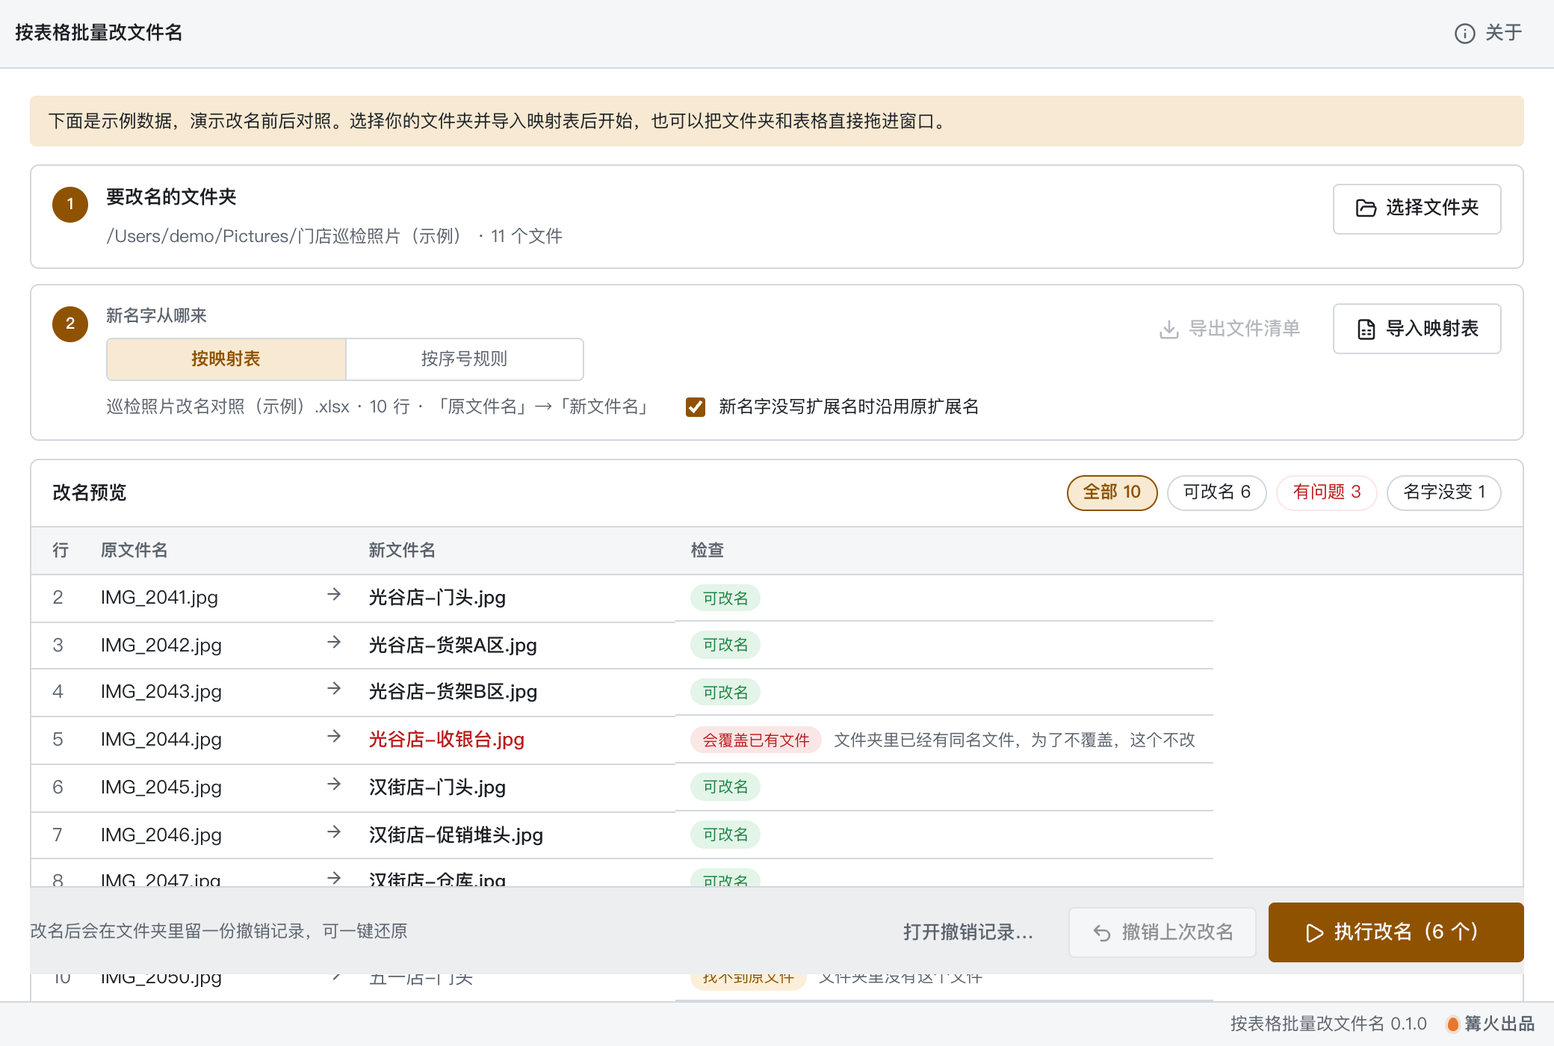
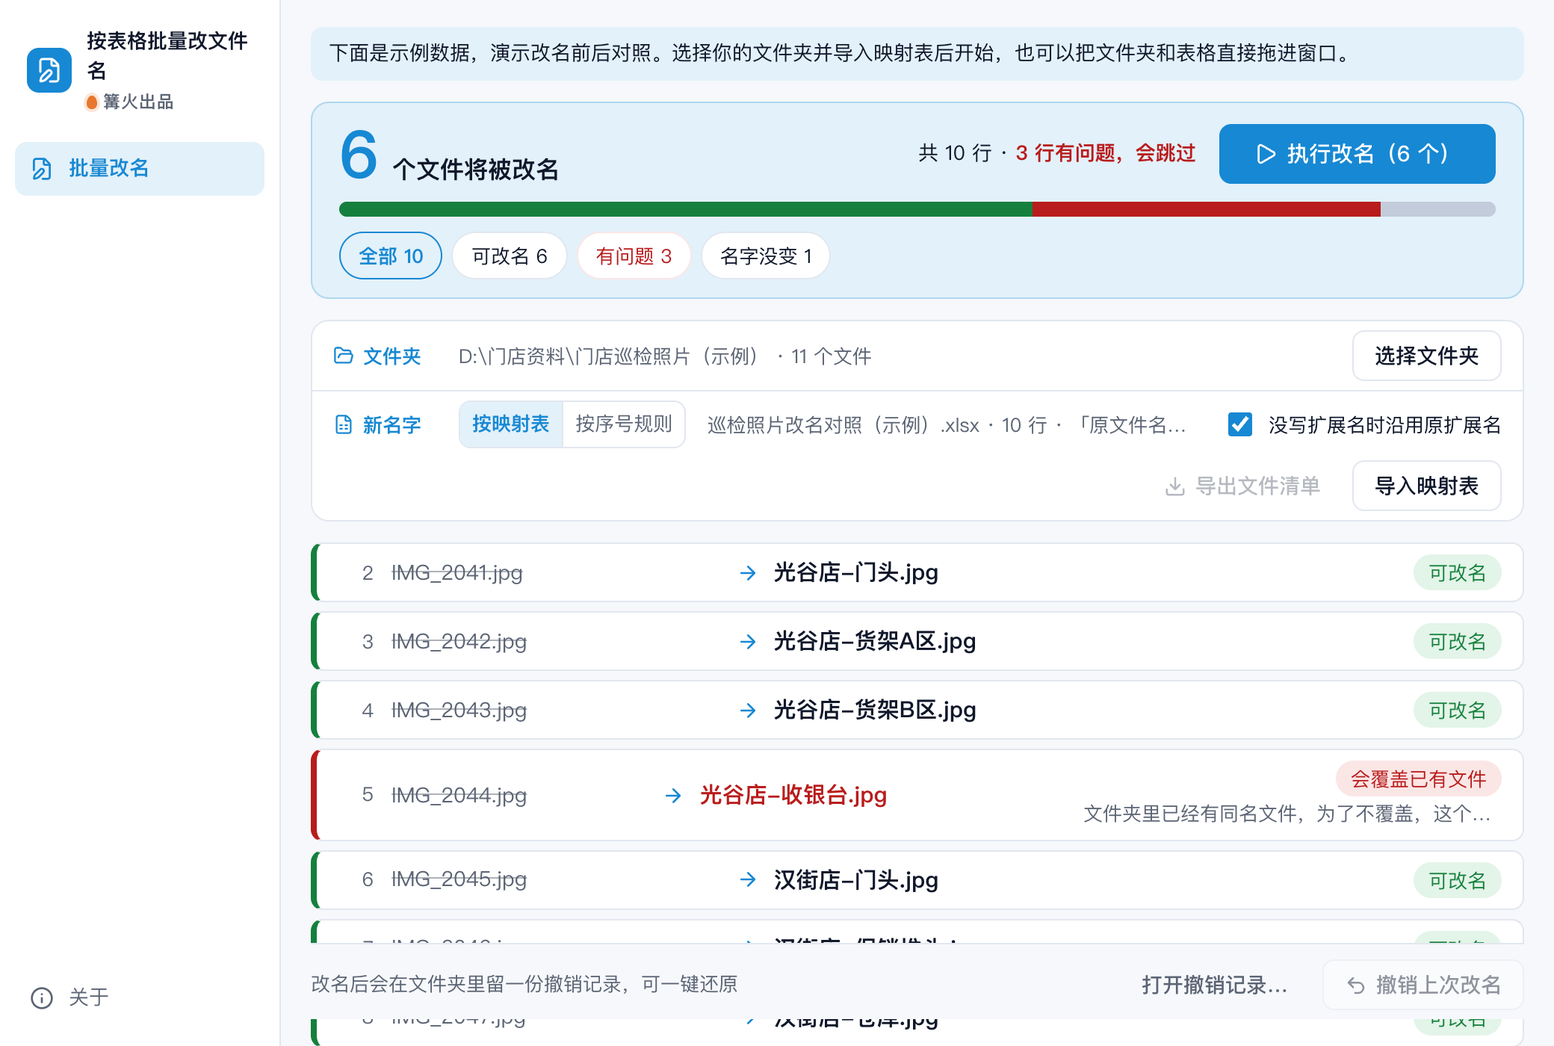
打磨 0.2.0：大数字与比例条总览、旧名到新名对照单、侧栏布局

diff --git a/src/tool/Main.tsx b/src/tool/Main.tsx
@@ -146,49 +146,67 @@ export function BatchRename({ ctx }: { ctx: Ctx }) {
     }
   };
 
+  const total = plan.length || 1;
+  const pct = (n: number) => `${(n / total) * 100}%`;
   return (
     <div className={`br${hover ? ' hover' : ''}`}>
       {sample && <div className="br-tip"><span>下面是示例数据，演示改名前后对照。选择你的文件夹并导入映射表后开始，也可以把文件夹和表格直接拖进窗口。</span></div>}
 
-      <section className="br-steps">
-        <div className="br-step k-card">
-          <span className="br-no">1</span>
-          <div className="br-step-main">
-            <b>要改名的文件夹</b>
-            <span className="k-muted br-path" title={folder}>{folder ? `${folder} · ${files.length} 个文件` : '还没选'}</span>
+      <section className="br-hero">
+        <div className="br-hero-top">
+          <div className="br-hero-num">
+            <span className="br-big">{c.ok}</span>
+            <span className="br-big-unit">个文件将被改名</span>
           </div>
-          <div className="br-step-ops">
-            {folder && !sample && <button className="k-icon-btn" title="重新读取" aria-label="重新读取" onClick={() => loadFolder(folder)}><RefreshCw size={15} /></button>}
-            <button className="k-btn" onClick={async () => { const p = await pickFolder(); if (p) await loadFolder(p); }}><FolderOpen size={15} />选择文件夹</button>
+          <div className="br-hero-side">
+            <span className="br-hero-meta">共 {plan.length} 行{bad ? <> · <b className="br-bad-text">{bad} 行有问题，会跳过</b></> : ' · 全部通过检查'}</span>
+            <button className="k-btn primary big" disabled={!c.ok || !!busy} onClick={run}><Play size={16} />{busy ?? `执行改名（${c.ok} 个）`}</button>
           </div>
         </div>
+        <div className="br-meter" role="img" aria-label={`可改名 ${c.ok}，有问题 ${bad}，名字没变 ${c.same}`}>
+          <i className="m-ok" style={{ width: pct(c.ok) }} />
+          <i className="m-bad" style={{ width: pct(bad) }} />
+          <i className="m-same" style={{ width: pct(c.same) }} />
+        </div>
+        <div className="br-filters">
+          {([['all', `全部 ${plan.length}`], ['ok', `可改名 ${c.ok}`], ['bad', `有问题 ${bad}`], ['same', `名字没变 ${c.same}`]] as [Filter, string][]).map(([f, l]) => (
+            <button key={f} className={`k-chip${filter === f ? ' on' : ''}${f === 'bad' && bad ? ' br-bad' : ''}`} onClick={() => setFilter(f)}>{l}</button>
+          ))}
+        </div>
+      </section>
 
-        <div className="br-step k-card">
-          <span className="br-no">2</span>
-          <div className="br-step-main">
-            <FieldControl field={{ key: 'mode', label: '新名字从哪来', type: 'segment', options: [['table', '按映射表'], ['rule', '按序号规则']], default: 'table' }} value={mode} onChange={(v) => setMode(v as 'table' | 'rule')} />
-            {mode === 'table' ? (
-              <div className="br-src">
-                <span className="k-muted">{mapping ? `${mapping.name} · ${mapping.entries.length} 行 · ${mapping.columns}` : '表格两列：原文件名、新文件名（.xlsx 或 .csv）'}</span>
-                <label className="br-check"><input type="checkbox" checked={keepExt} onChange={(e) => setKeepExt(e.target.checked)} />新名字没写扩展名时沿用原扩展名</label>
-              </div>
-            ) : (
-              <div className="br-rule">
-                <FieldControl field={{ key: 'template', label: '名字模板', type: 'text', default: '', placeholder: '例如 主图-{序号}' }} value={rule.template} onChange={(v) => setRule({ ...rule, template: String(v) })} />
-                <FieldControl field={{ key: 'start', label: '起始序号', type: 'number', default: 1, min: 0 }} value={rule.start} onChange={(v) => setRule({ ...rule, start: Number(v) })} />
-                <FieldControl field={{ key: 'digits', label: '序号位数', type: 'number', default: 3, min: 1, max: 8, help: '3 → 001' }} value={rule.digits} onChange={(v) => setRule({ ...rule, digits: Number(v) })} />
-                <FieldControl field={{ key: 'only', label: '只改这些类型', type: 'text', default: '', placeholder: '留空为全部，例如 jpg,png' }} value={rule.only} onChange={(v) => setRule({ ...rule, only: String(v) })} />
-                <span className="k-help br-rule-help">{'{序号}'} 换成编号，{'{原名}'} 换成原文件名；按文件名自然顺序编号（图2 在 图10 前），扩展名保持不变。</span>
-              </div>
-            )}
-          </div>
+      <section className="br-src-bar">
+        <div className="br-cell">
+          <span className="br-cap"><FolderOpen size={14} />文件夹</span>
+          <span className="br-path" title={folder}>{folder ? `${folder} · ${files.length} 个文件` : '还没选'}</span>
+          <span className="br-cell-ops">
+            {folder && !sample && <button className="k-icon-btn" title="重新读取" aria-label="重新读取" onClick={() => loadFolder(folder)}><RefreshCw size={15} /></button>}
+            <button className="k-btn" onClick={async () => { const p = await pickFolder(); if (p) await loadFolder(p); }}>选择文件夹</button>
+          </span>
+        </div>
+        <div className="br-cell">
+          <span className="br-cap"><FileSpreadsheet size={14} />新名字</span>
+          <FieldControl field={{ key: 'mode', label: '新名字从哪来', type: 'segment', options: [['table', '按映射表'], ['rule', '按序号规则']], default: 'table' }} value={mode} onChange={(v) => setMode(v as 'table' | 'rule')} />
           {mode === 'table' && (
-            <div className="br-step-ops">
-              <button className="k-btn ghost" disabled={!files.length || sample} title="把文件夹里的文件名导出成表格，填好新名字再导入" onClick={exportTemplate}><Download size={15} />导出文件清单</button>
-              <button className="k-btn" onClick={async () => { const [p] = await pickFiles(TABLE_EXT, '映射表'); if (p) await importTable(p); }}><FileSpreadsheet size={15} />导入映射表</button>
-            </div>
+            <>
+              <span className="br-path">{mapping ? `${mapping.name} · ${mapping.entries.length} 行 · ${mapping.columns}` : '表格两列：原文件名、新文件名（.xlsx 或 .csv）'}</span>
+              <label className="br-check"><input type="checkbox" checked={keepExt} onChange={(e) => setKeepExt(e.target.checked)} />没写扩展名时沿用原扩展名</label>
+              <span className="br-cell-ops">
+                <button className="k-btn ghost" disabled={!files.length || sample} title="把文件夹里的文件名导出成表格，填好新名字再导入" onClick={exportTemplate}><Download size={15} />导出文件清单</button>
+                <button className="k-btn" onClick={async () => { const [p] = await pickFiles(TABLE_EXT, '映射表'); if (p) await importTable(p); }}>导入映射表</button>
+              </span>
+            </>
           )}
         </div>
+        {mode === 'rule' && (
+          <div className="br-rule">
+            <FieldControl field={{ key: 'template', label: '名字模板', type: 'text', default: '', placeholder: '例如 主图-{序号}' }} value={rule.template} onChange={(v) => setRule({ ...rule, template: String(v) })} />
+            <FieldControl field={{ key: 'start', label: '起始序号', type: 'number', default: 1, min: 0 }} value={rule.start} onChange={(v) => setRule({ ...rule, start: Number(v) })} />
+            <FieldControl field={{ key: 'digits', label: '序号位数', type: 'number', default: 3, min: 1, max: 8, help: '3 → 001' }} value={rule.digits} onChange={(v) => setRule({ ...rule, digits: Number(v) })} />
+            <FieldControl field={{ key: 'only', label: '只改这些类型', type: 'text', default: '', placeholder: '留空为全部，例如 jpg,png' }} value={rule.only} onChange={(v) => setRule({ ...rule, only: String(v) })} />
+            <span className="k-help br-rule-help">{'{序号}'} 换成编号，{'{原名}'} 换成原文件名；按文件名自然顺序编号（图2 在 图10 前），扩展名保持不变。</span>
+          </div>
+        )}
       </section>
 
       {toast && (
@@ -199,44 +217,35 @@ export function BatchRename({ ctx }: { ctx: Ctx }) {
         </div>
       )}
 
-      <section className="br-preview k-card">
-        <div className="br-preview-hd">
-          <b>改名预览</b>
-          <div className="br-filters">
-            {([['all', `全部 ${plan.length}`], ['ok', `可改名 ${c.ok}`], ['bad', `有问题 ${bad}`], ['same', `名字没变 ${c.same}`]] as [Filter, string][]).map(([f, l]) => (
-              <button key={f} className={`k-chip${filter === f ? ' on' : ''}${f === 'bad' && bad ? ' br-bad' : ''}`} onClick={() => setFilter(f)}>{l}</button>
-            ))}
-          </div>
-        </div>
+      <section className="br-ledger">
         {planError ? <div className="br-empty br-err">{planError}</div> : !plan.length ? (
           <div className="br-empty k-muted">{!folder ? '先选择要改名的文件夹' : !files.length ? '这个文件夹里没有文件' : mode === 'table' ? '导入映射表后在这里预览' : '没有符合类型的文件'}</div>
         ) : (
-          <div className="k-table-wrap br-table-wrap">
-            <table className="k-table br-table">
-              <thead><tr><th className="br-num">行</th><th>原文件名</th><th aria-label="改为" /><th>新文件名</th><th>检查</th></tr></thead>
-              <tbody>
-                {shown.map((r, i) => (
-                  <tr key={i} className={`st-${r.status}`}>
-                    <td className="br-num k-muted">{r.line}</td>
-                    <td className="k-cell br-name" title={r.from}>{r.from}</td>
-                    <td className="br-arrow"><ArrowRight size={13} /></td>
-                    <td className="k-cell br-name br-to" title={r.to}>{r.to}</td>
-                    <td className="br-state"><span className={`br-badge ${r.status}`}>{STATUS_LABEL[r.status]}</span>{r.reason && r.status !== 'same' && <span className="k-muted br-reason" title={r.reason}>{r.reason}</span>}</td>
-                  </tr>
-                ))}
-              </tbody>
-            </table>
-          </div>
+          <ol className="br-list">
+            {shown.map((r, i) => (
+              <li key={i} className={`br-item st-${r.status}`}>
+                <span className="br-line">{r.line ?? i + 1}</span>
+                <div className="br-pair">
+                  <span className="br-from" title={r.from}>{r.from}</span>
+                  <ArrowRight size={15} className="br-arrow" />
+                  <span className="br-to" title={r.to}>{r.to}</span>
+                </div>
+                <div className="br-state">
+                  <span className={`br-badge ${r.status}`}>{STATUS_LABEL[r.status]}</span>
+                  {r.reason && r.status !== 'same' && <span className="br-reason" title={r.reason}>{r.reason}</span>}
+                </div>
+              </li>
+            ))}
+          </ol>
         )}
       </section>
 
       <footer className="br-foot">
-        <span className="k-muted br-foot-info">
+        <span className="br-foot-info">
           {record ? `上次改名：${record.record.at.slice(0, 16).replace('T', ' ')}，${record.record.items.length} 个` : '改名后会在文件夹里留一份撤销记录，可一键还原'}
         </span>
         <button className="k-btn ghost" onClick={openRecord} disabled={!!busy}>打开撤销记录…</button>
         <button className="k-btn" disabled={!record || !!busy} onClick={() => record && doUndo(record.path)}><Undo2 size={15} />撤销上次改名</button>
-        <button className="k-btn primary big" disabled={!c.ok || !!busy} onClick={run}><Play size={15} />{busy ?? `执行改名（${c.ok} 个）`}</button>
       </footer>
     </div>
   );

diff --git a/src/tool/tool.css b/src/tool/tool.css
@@ -1,54 +1,72 @@
-/* 按表格批量改文件名：只用 kit.css 的变量，适配 6 套布局与亮暗色 */
-.br { flex: 1; display: flex; flex-direction: column; gap: 12px; min-width: 0; container-type: inline-size; }
+/* 按表格批量改文件名：大数字 + 比例条做焦点，下方是「旧名 → 新名」对照单 */
+.br { flex: 1; display: flex; flex-direction: column; gap: 14px; min-width: 0; container-type: inline-size; font-size: 14px; }
 .br.hover { outline: 2px dashed var(--primary); outline-offset: 4px; border-radius: var(--radius-lg); }
-.br-tip { padding: 8px 12px; border-radius: min(var(--radius), 10px); background: var(--primary-soft); color: var(--ink); font-size: .95em; }
+.br-tip { padding: 8px 12px; border-radius: min(var(--radius), 10px); background: var(--primary-soft); color: var(--ink); font-size: 13.5px; }
 
-.br-steps { display: grid; gap: 10px; }
-.br .br-step { flex-direction: row; display: flex; align-items: flex-start; gap: 12px; padding: 12px 14px; overflow: visible; }
-.br-no { flex: none; display: grid; place-items: center; width: 24px; height: 24px; border-radius: 50%; background: var(--primary); color: var(--on-primary); font-weight: 700; font-size: .85em; margin-top: 2px; }
-.br-step-main { flex: 1; min-width: 0; display: grid; gap: 8px; }
-.br-step-main > .k-field { max-width: 320px; }
-.br-step-ops { flex: none; display: flex; align-items: center; gap: 6px; }
-.br-path { overflow: hidden; text-overflow: ellipsis; white-space: nowrap; font-size: .93em; }
-.br-src { display: flex; flex-wrap: wrap; align-items: center; gap: 4px 16px; font-size: .93em; }
-.br-check { display: inline-flex; align-items: center; gap: 6px; cursor: pointer; color: var(--ink); }
-.br-check input { accent-color: var(--primary); }
+.br-hero { display: grid; gap: 10px; padding: 12px 18px 12px; border-radius: var(--radius-lg); background: var(--primary-soft); border: 1px solid color-mix(in srgb, var(--primary) 25%, transparent); }
+.br-hero-top { display: flex; flex-wrap: wrap; align-items: center; justify-content: space-between; gap: 12px 24px; }
+.br-hero-num { display: flex; align-items: baseline; gap: 10px; }
+.br-big { font-size: 44px; line-height: 1; font-weight: 800; letter-spacing: -.02em; color: var(--primary); font-variant-numeric: tabular-nums; }
+.br-big-unit { font-size: 16px; font-weight: 600; color: var(--ink); }
+.br-hero-side { display: flex; flex-wrap: wrap; align-items: center; gap: 10px 16px; }
+.br-hero-meta { font-size: 13.5px; color: var(--ink); }
+.br-bad-text { color: var(--err); }
+.br-meter { display: flex; height: 10px; border-radius: 999px; overflow: hidden; background: color-mix(in srgb, var(--ink) 10%, transparent); }
+.br-meter i { display: block; height: 100%; transition: width 200ms ease; }
+.m-ok { background: var(--ok); } .m-bad { background: var(--err); } .m-same { background: var(--line-strong); }
+.br-filters { display: flex; flex-wrap: wrap; gap: 6px; }
+.br-filters .k-chip { min-height: 32px; padding: 2px 12px; font-size: 13px; font-variant-numeric: tabular-nums; }
+.br-filters .br-bad:not(.on) { color: var(--err); border-color: var(--err-soft); }
+
+.br-src-bar { display: grid; gap: 0; border: 1px solid var(--line); border-radius: var(--radius-lg); background: var(--surface); overflow: hidden; }
+.br-src-bar > * { padding: 6px 14px; }
+.br-cell .k-field > :not(.k-seg) { display: none; }
+.br-cell .k-field { flex: none; }
+.br-src-bar > * + * { border-top: 1px solid var(--line); }
+.br-cell { display: flex; flex-wrap: wrap; align-items: center; gap: 8px 14px; }
+.br-cap { display: inline-flex; align-items: center; gap: 6px; width: 70px; flex: none; font-weight: 700; font-size: 13px; color: var(--primary); }
+.br-cell .k-field { margin: 0; }
+.br-path { flex: 1; min-width: 120px; overflow: hidden; text-overflow: ellipsis; white-space: nowrap; font-size: 13px; color: var(--muted); }
+.br-cell-ops { display: flex; align-items: center; gap: 6px; margin-left: auto; }
+.br-check { display: flex; align-items: center; gap: 8px; cursor: pointer; font-size: 13px; color: var(--ink); min-height: 32px; }
+.br-check input { accent-color: var(--primary); width: 16px; height: 16px; }
 .br-rule { display: grid; grid-template-columns: minmax(160px, 2fr) repeat(2, minmax(80px, 1fr)) minmax(140px, 1.6fr); gap: 10px; align-items: start; }
 .br-rule-help { grid-column: 1 / -1; }
 
-.br-toast { display: flex; align-items: center; gap: 8px; padding: 8px 8px 8px 12px; border-radius: min(var(--radius), 10px); font-size: .95em; }
+.br-toast { display: flex; align-items: center; gap: 8px; padding: 8px 8px 8px 12px; border-radius: min(var(--radius), 10px); font-size: 13.5px; }
 .br-toast span { flex: 1; min-width: 0; }
 .br-toast.ok { background: var(--ok-soft); color: var(--ink); }
 .br-toast.err { background: var(--err-soft); color: var(--ink); }
 
-.br .br-preview { flex: 1; display: flex; flex-direction: column; min-height: 220px; overflow: hidden; }
-.br-preview-hd { display: flex; flex-wrap: wrap; align-items: center; justify-content: space-between; gap: 8px; padding: 10px 14px; border-bottom: 1px solid var(--line); }
-.br-filters { display: flex; flex-wrap: wrap; gap: 6px; }
-.br-filters .k-chip { padding: 2px 10px; font-variant-numeric: tabular-nums; }
-.br-filters .br-bad:not(.on) { color: var(--err); border-color: var(--err-soft); }
-.br-table-wrap { flex: 1; overflow: auto; }
-.br-table th:first-child, .br-table td:first-child { padding-left: 14px; }
-.br-num { width: 36px; font-variant-numeric: tabular-nums; }
-.br-arrow { width: 20px; color: var(--muted); padding: 0 !important; }
-.br-name { max-width: 220px !important; }
-.br-to { font-weight: 500; }
-tr.st-same .br-to, tr.st-missing .br-to { color: var(--muted); font-weight: 400; }
-tr.st-illegal .br-to, tr.st-exists .br-to, tr.st-dup .br-to { color: var(--err); }
-.br-state { display: flex; align-items: center; gap: 8px; max-width: 360px; }
-.br-badge { flex: none; display: inline-block; padding: 0 8px; border-radius: 999px; font-size: .82em; line-height: 1.8; background: var(--chip); color: var(--muted); }
+.br-ledger { flex: 1; min-height: 160px; }
+.br-list { list-style: none; margin: 0; padding: 0; display: grid; gap: 6px; counter-reset: none; }
+.br-item { display: grid; grid-template-columns: 24px minmax(0, 1fr) minmax(150px, auto); align-items: center; gap: 12px; padding: 7px 14px; border: 1px solid var(--line); border-left: 4px solid var(--ok); border-radius: min(var(--radius), 10px); background: var(--surface); }
+.br-item.st-same { border-left-color: var(--line-strong); }
+.br-item.st-missing { border-left-color: var(--warn); }
+.br-item.st-illegal, .br-item.st-exists, .br-item.st-dup, .br-item.st-dupSource { border-left-color: var(--err); }
+.br-line { font-size: 13px; color: var(--muted); font-variant-numeric: tabular-nums; text-align: right; }
+.br-pair { display: flex; align-items: center; gap: 10px; min-width: 0; }
+.br-from { flex: 0 1 38%; min-width: 0; overflow: hidden; text-overflow: ellipsis; white-space: nowrap; color: var(--muted); text-decoration: line-through; text-decoration-color: color-mix(in srgb, var(--muted) 50%, transparent); }
+.br-arrow { flex: none; color: var(--primary); }
+.br-to { flex: 1; min-width: 0; overflow: hidden; text-overflow: ellipsis; white-space: nowrap; font-weight: 700; font-size: 15px; color: var(--ink); }
+.st-same .br-to, .st-missing .br-to { color: var(--muted); font-weight: 500; }
+.st-illegal .br-to, .st-exists .br-to, .st-dup .br-to { color: var(--err); }
+.st-same .br-from { text-decoration: none; }
+.br-state { display: flex; flex-direction: column; align-items: flex-end; gap: 2px; min-width: 0; }
+.br-badge { display: inline-block; padding: 0 10px; border-radius: 999px; font-size: 13px; line-height: 24px; background: var(--chip); color: var(--muted); white-space: nowrap; }
 .br-badge.ok { background: var(--ok-soft); color: var(--ok); }
 .br-badge.missing { background: var(--warn-soft); color: var(--warn); }
 .br-badge.illegal, .br-badge.exists, .br-badge.dup, .br-badge.dupSource { background: var(--err-soft); color: var(--err); }
-.br-reason { overflow: hidden; text-overflow: ellipsis; white-space: nowrap; font-size: .88em; }
-.br-empty { flex: 1; display: grid; place-items: center; padding: 40px 16px; text-align: center; }
+.br-reason { max-width: 280px; overflow: hidden; text-overflow: ellipsis; white-space: nowrap; font-size: 13px; color: var(--muted); }
+.br-empty { display: grid; place-items: center; padding: 40px 16px; text-align: center; border: 1px dashed var(--line-strong); border-radius: var(--radius-lg); }
 .br-err { color: var(--err); }
 
-.br-foot { position: sticky; bottom: 0; display: flex; flex-wrap: wrap; align-items: center; justify-content: flex-end; gap: 8px; padding: 10px 0 2px; background: var(--bg); border-top: 1px solid var(--line); padding-bottom: 8px; }
-.br-foot-info { flex: 1; min-width: 200px; font-size: .92em; }
+.br-foot { position: sticky; bottom: 0; display: flex; flex-wrap: wrap; align-items: center; justify-content: flex-end; gap: 8px; padding: 10px 0 6px; background: var(--bg); border-top: 1px solid var(--line); }
+.br-foot-info { flex: 1; min-width: 200px; font-size: 13px; color: var(--muted); }
 
-@container (max-width: 640px) {
-  .br .br-step { flex-wrap: wrap; }
-  .br-step-ops { width: 100%; justify-content: flex-end; }
+@container (max-width: 700px) {
   .br-rule { grid-template-columns: 1fr 1fr; }
-  .br-reason { display: none; }
+  .br-item { grid-template-columns: 24px minmax(0, 1fr); }
+  .br-state { grid-column: 2; align-items: flex-start; flex-direction: row; flex-wrap: wrap; gap: 8px; }
+  .br-big { font-size: 44px; }
 }

diff --git a/src/tool/core.ts b/src/tool/core.ts
@@ -237,7 +237,7 @@ export async function applyRenames(dir: string, pairs: { from: string; to: strin
   // cur：每个待改项现在实际叫什么名字（可能是临时名）
   const pending = pairs.map((p) => ({ ...p, cur: p.from }));
   const occupied = async (name: string) => fs.exists(await fs.join(dir, name));
-  const tmpName = (i: number) => `.改名中-${Date.now().toString(36)}-${i}.tmp`;
+  const tmpName = (i: number) => `.改名中-${Date.now().toString(36)}-${i}.暂存`;
   let tmpSeq = 0;
   const step = () => onStep?.(report.done.length + report.failed.length);
 

diff --git a/src/tool/core.test.ts b/src/tool/core.test.ts
@@ -124,7 +124,7 @@ describe('执行与撤销', () => {
     expect(files.get('b.txt')).toBe('内容:a.txt');
     expect(files.get('d.txt')).toBe('内容:c.txt');
     expect(files.get('X.txt')).toBe('内容:x.txt');
-    expect([...files.keys()].filter((k) => k.endsWith('.tmp'))).toEqual([]);
+    expect([...files.keys()].filter((k) => k.endsWith('.暂存'))).toEqual([]);
     await undo(r.recordPath!, ops);
     for (const n of ['a', 'b', 'c', 'x']) expect(files.get(`${n}.txt`)).toBe(`内容:${n}.txt`);
   });

diff --git a/src/tool/samples.ts b/src/tool/samples.ts
@@ -16,7 +16,7 @@ const pairs: [string, string][] = [
 ];
 
 export const SAMPLE = {
-  folder: '/Users/demo/Pictures/门店巡检照片（示例）',
+  folder: 'D:\\门店资料\\门店巡检照片（示例）',
   files,
   mapping: {
     name: '巡检照片改名对照（示例）.xlsx',

diff --git a/CHANGELOG.md b/CHANGELOG.md
@@ -1,5 +1,12 @@
 # 更新记录
 
+## 0.2.0
+
+- 重做主界面：顶部用大数字和比例条显示「将被改名 / 有问题 / 名字没变」，下方改成「旧名 → 新名」对照单，问题行用色条标出。
+- 布局换成侧栏版，主色换为蓝色；正文字号提到 13px 以上。
+- 示例文件夹路径改成中文；改名中的临时文件后缀由 .tmp 改为 .暂存。
+- 功能和数据格式不变。
+
 ## 0.1.0
 
 - 首个版本。
